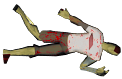
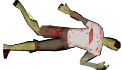
[replace]: crop void from images

diff --git a/TopDownshooter/Form1.Designer.cs b/TopDownshooter/Form1.Designer.cs
@@ -37,6 +37,7 @@ namespace TopDownshooter
             this.barHealth = new System.Windows.Forms.ProgressBar();
             this.player = new System.Windows.Forms.PictureBox();
             this.GameTimer = new System.Windows.Forms.Timer(this.components);
+            this.pressEnter = new System.Windows.Forms.Label();
             ((System.ComponentModel.ISupportInitialize)(this.player)).BeginInit();
             this.SuspendLayout();
             // 
@@ -56,7 +57,7 @@ namespace TopDownshooter
             this.txtKills.AutoSize = true;
             this.txtKills.Font = new System.Drawing.Font("Microsoft Sans Serif", 13.8F, System.Drawing.FontStyle.Bold, System.Drawing.GraphicsUnit.Point, ((byte)(0)));
             this.txtKills.ForeColor = System.Drawing.Color.White;
-            this.txtKills.Location = new System.Drawing.Point(600, 9);
+            this.txtKills.Location = new System.Drawing.Point(574, 9);
             this.txtKills.Name = "txtKills";
             this.txtKills.Size = new System.Drawing.Size(92, 29);
             this.txtKills.TabIndex = 1;
@@ -98,12 +99,25 @@ namespace TopDownshooter
             this.GameTimer.Interval = 20;
             this.GameTimer.Tick += new System.EventHandler(this.MainTimerEvent);
             // 
+            // pressEnter
+            // 
+            this.pressEnter.AutoSize = true;
+            this.pressEnter.Font = new System.Drawing.Font("Microsoft Sans Serif", 28.2F, System.Drawing.FontStyle.Bold, System.Drawing.GraphicsUnit.Point, ((byte)(0)));
+            this.pressEnter.ForeColor = System.Drawing.Color.White;
+            this.pressEnter.Location = new System.Drawing.Point(360, 330);
+            this.pressEnter.Name = "pressEnter";
+            this.pressEnter.Size = new System.Drawing.Size(518, 55);
+            this.pressEnter.TabIndex = 5;
+            this.pressEnter.Text = "Press Enter to Restart";
+            this.pressEnter.Visible = false;
+            // 
             // Form1
             // 
             this.AutoScaleDimensions = new System.Drawing.SizeF(8F, 16F);
             this.AutoScaleMode = System.Windows.Forms.AutoScaleMode.Font;
             this.BackColor = System.Drawing.SystemColors.AppWorkspace;
             this.ClientSize = new System.Drawing.Size(1262, 673);
+            this.Controls.Add(this.pressEnter);
             this.Controls.Add(this.barHealth);
             this.Controls.Add(this.Health);
             this.Controls.Add(this.txtKills);
@@ -131,6 +145,7 @@ namespace TopDownshooter
         private System.Windows.Forms.ProgressBar barHealth;
         private System.Windows.Forms.PictureBox player;
         private System.Windows.Forms.Timer GameTimer;
+        private System.Windows.Forms.Label pressEnter;
     }
 }
 

diff --git a/TopDownshooter/Form1.cs b/TopDownshooter/Form1.cs
@@ -42,6 +42,7 @@ namespace TopDownshooter
                 player.Image = Properties.Resources.dead;
                 GameTimer.Stop();
                 gameOver = true;
+                pressEnter.Visible = true;
             }
 
             // меняю цвет на красный если снарядов 0
@@ -214,6 +215,7 @@ namespace TopDownshooter
         }
         private void RestartGame()
         {
+            pressEnter.Visible = false;
             player.Image = Properties.Resources.up;
             foreach (PictureBox i in zombiesList)
                 this.Controls.Remove(i);
